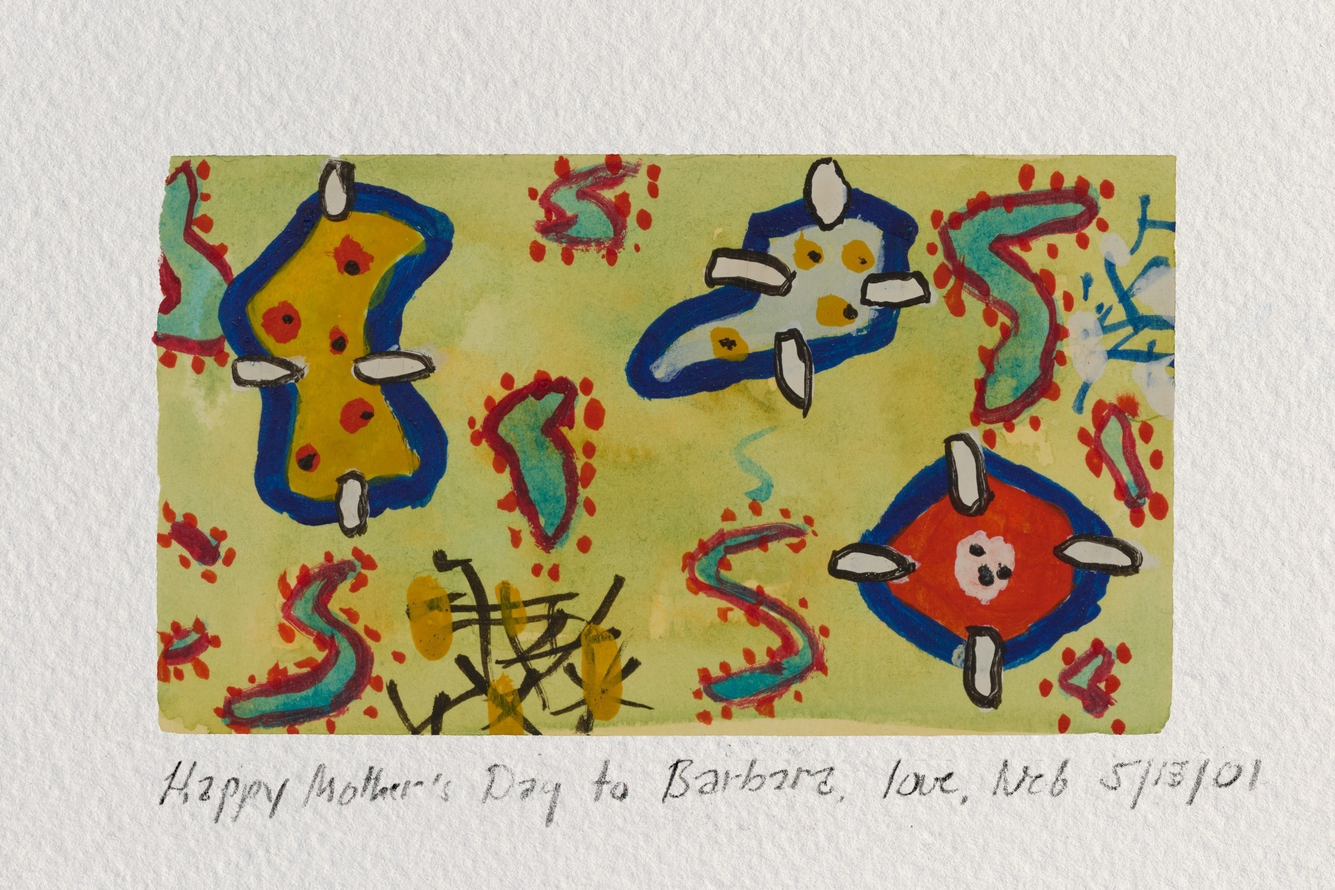
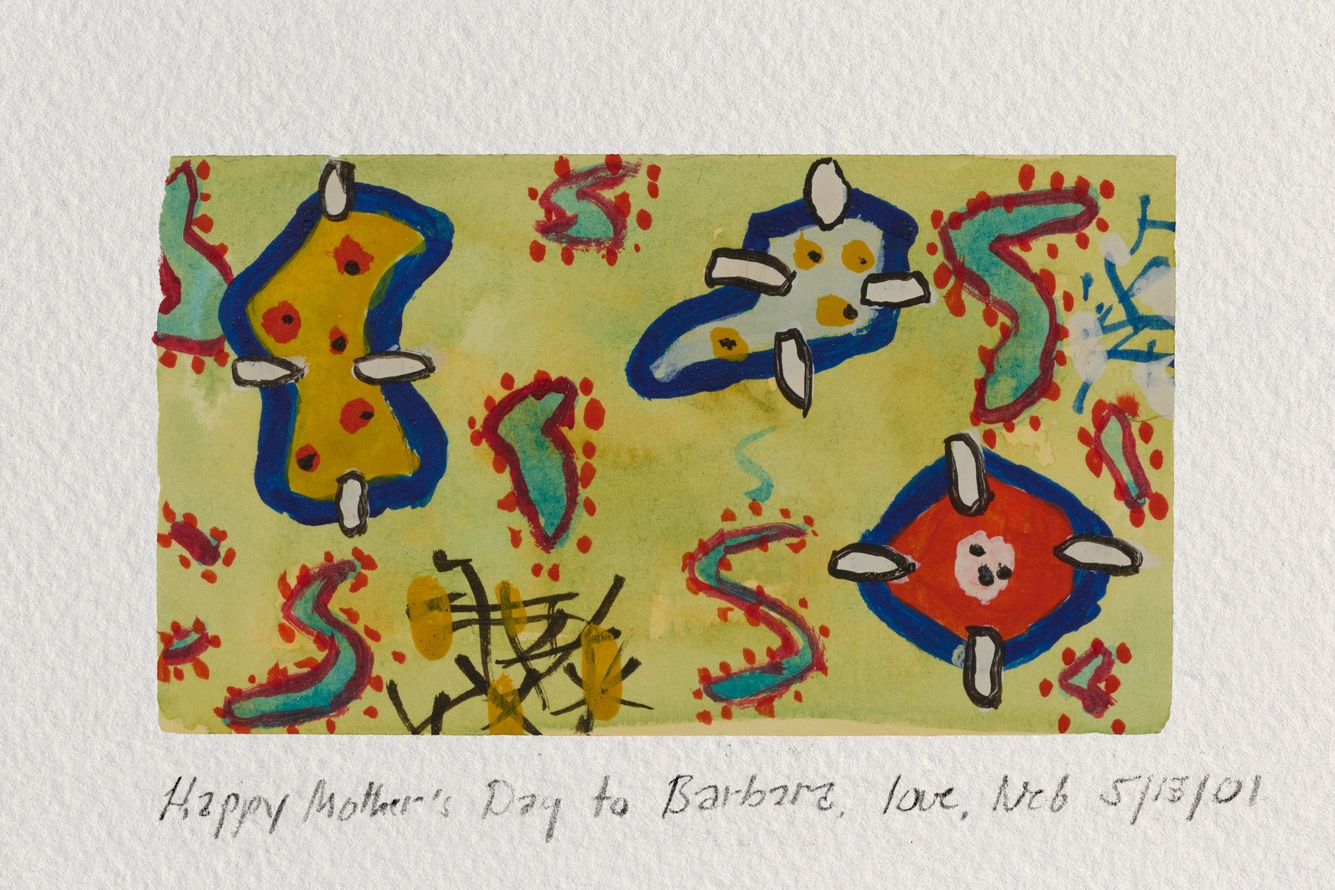
Emergence: dedication a little lower again

Changed region(s): [[0.0938, 0.8438, 0.625, 0.9375], [0.6562, 0.8438, 0.9688, 0.9375]]

diff --git a/SITE-STATE.md b/SITE-STATE.md
@@ -142,7 +142,7 @@ The three templated gallery files (clean, boxed, horizontal) share the same data
 
 ## Assets
 
-- **Artwork images (2026-10-11)**: 53 works from "Ned - Website Images" (next to the site folder; `artworks.csv` is the source of titles, taglines, series and orientation; the folder itself is never edited). Each is in `assets/works/` at 2400px (landscape 2400 x 1600, portrait 1600 x 2400, exactly 3:2 and 2:3) and `assets/thumbs/` at 600px on the long side, named by series and title without the size suffix (e.g. `core_script.jpg`, `tonal_vesper-1.jpg`). Copies have their embedded caption tag removed (no tool credit) without re-compressing, except three turned to match Ned's documentation decks (Brilliance 180°, Within and Cubicle 90° clockwise to portrait), which were re-saved at high quality. Emergence uses `emergence-3_textured-frame-dedication`; on the site copy (`core_emergence.jpg` and its thumbnail) the handwritten dedication under the painting was moved 28px lower in the 2400px file (about 8px on screen on the detail page at 1440px), the gap above it filled with the same blank paper; the master folder's copy is unchanged. Overlook is the one work new to the gallery. The homepage, the grid, G5, G6 and G7 all use these files; the works lists embedded in G5, G6 and G7 were regenerated (63 visible works).
+- **Artwork images (2026-10-11)**: 53 works from "Ned - Website Images" (next to the site folder; `artworks.csv` is the source of titles, taglines, series and orientation; the folder itself is never edited). Each is in `assets/works/` at 2400px (landscape 2400 x 1600, portrait 1600 x 2400, exactly 3:2 and 2:3) and `assets/thumbs/` at 600px on the long side, named by series and title without the size suffix (e.g. `core_script.jpg`, `tonal_vesper-1.jpg`). Copies have their embedded caption tag removed (no tool credit) without re-compressing, except three turned to match Ned's documentation decks (Brilliance 180°, Within and Cubicle 90° clockwise to portrait), which were re-saved at high quality. Emergence uses `emergence-3_textured-frame-dedication`; on the site copy (`core_emergence.jpg` and its thumbnail) the handwritten dedication under the painting was moved 56px lower in the 2400px file (about 16px on screen on the detail page at 1440px), the gap above it filled with the same blank paper; the master folder's copy is unchanged. Overlook is the one work new to the gallery. The homepage, the grid, G5, G6 and G7 all use these files; the works lists embedded in G5, G6 and G7 were regenerated (63 visible works).
 - **The 11 untitled works** (2026-10-11): Outliers 1 to 7, The Turning 6, Convergence 6 and 7, and Ascent 1, made from the finalized 4328px scans in `google drive Ned/Arbor & Eye/Finalized Imagery` and `Finalized Photography` (local copies only), trimmed to exact 3:2 or 2:3 (0.2 to 1.8% of paper margin) and saved at 2400px and 600px without embedded tags (the photographer's copyright tag included), named like the rest (`outliers_outliers-1.jpg`, `the-turning_the-turning-6.jpg`, `convergence_convergence-6.jpg`, `ascent_ascent-1.jpg`). Ascent 1's scan is stored sideways and was turned 90° clockwise to stand upright as on the earlier site (it is not in the decks). All 11 were also added to "Ned - Website Images" (`detail-2400/`, `thumb-600/`, rows in `artworks.csv`, untitled). Placeholder titles stay until Ned titles them. Every work in the live galleries is now on the new files.
 - **Proportions**: everything that assumed the old 1.494:1 scans now uses exactly 3:2 (G5's 12-up box, the homepage frame and thumbnails, `tools/uniform-works.py`). Orientation follows the documentation decks (`Painting Documentation.zip`); `Ned - Website Works Mapping.xlsx` (next to the site folder) lists every work with its thumbnail, old site title and notes, plus open questions.
 - Fallback: a light green box shows if any artwork file is missing.
